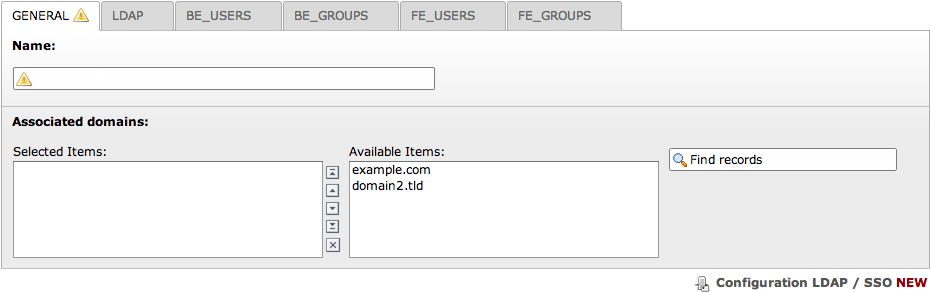
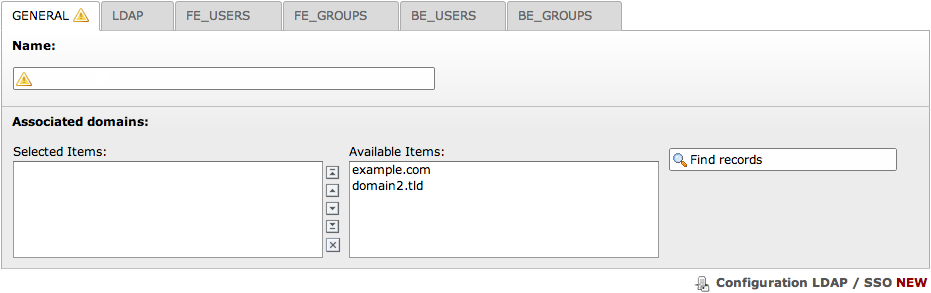
[TASK] Move frontend configuration before backend in TCA
Resolves: #65655

diff --git a/Configuration/TCA/tx_igldapssoauth_config.php b/Configuration/TCA/tx_igldapssoauth_config.php
@@ -36,14 +36,14 @@ return array(
 						ldap_server;;1,
 					--palette--;LLL:EXT:ig_ldap_sso_auth/Resources/Private/Language/locallang_db.xlf:palette.connection;connection,
 						ldap_binddn, ldap_password, group_membership,
-					--div--;BE_USERS,
-						be_users_basedn, be_users_filter, be_users_mapping, be_groups_required, be_groups_assigned,
-					--div--;BE_GROUPS,
-						be_groups_basedn, be_groups_filter, be_groups_mapping, be_groups_admin,
 					--div--;FE_USERS,
 						fe_users_basedn, fe_users_filter, fe_users_mapping, fe_groups_required, fe_groups_assigned,
 					--div--;FE_GROUPS,
-						fe_groups_basedn, fe_groups_filter, fe_groups_mapping'
+						fe_groups_basedn, fe_groups_filter, fe_groups_mapping,
+					--div--;BE_USERS,
+						be_users_basedn, be_users_filter, be_users_mapping, be_groups_required, be_groups_assigned,
+					--div--;BE_GROUPS,
+						be_groups_basedn, be_groups_filter, be_groups_mapping, be_groups_admin'
 		),
 	),
 	'palettes' => array(

diff --git a/Documentation/AdministratorManual/Groups.rst b/Documentation/AdministratorManual/Groups.rst
@@ -6,17 +6,21 @@
 .. include:: ../Includes.txt
 
 
-.. _admin-manual-begroups:
 .. _admin-manual-fegroups:
+.. _admin-manual-begroups:
 
-BE_GROUPS and FE_GROUPS
+FE_GROUPS and BE_GROUPS
 -----------------------
 
-The fourth and sixth tabs can be fill exactly the same way. The only difference between them is that BE\_GROUPS stores
-the configurations for the backend LDAP usergroup association and FE\_GROUPS stores the configurations for the frontend
-LDAP user group association. You will only fill the sections you need, BE\_GROUPS if you need backend authentication and
-FE\_GROUPS if you need frontend authentication. You can skip this entire section if you just want to validate the
-authentication and do not want to use groups from LDAP.
+The fourth and sixth tabs can be fill exactly the same way. The only difference between them is that FE_GROUPS stores
+the configurations for the frontend LDAP user group association and BE_GROUPS stores the configurations for the backend
+LDAP user group association.
+
+You may only fill the sections you need; that is, FE_GROUPS if you need frontend authentication and BE_GROUPS if you
+need backend authentication.
+
+You should skip this entire section if you just want to validate the authentication and do not want to use any groups
+coming from LDAP.
 
 - **Base DN:** Full DN path of the directory containing all the groups that are related to your LDAP users and you want
   to use in your TYPO3 website.

diff --git a/Documentation/AdministratorManual/Users.rst b/Documentation/AdministratorManual/Users.rst
@@ -6,18 +6,19 @@
 .. include:: ../Includes.txt
 
 
-.. _admin-manual-beusers:
 .. _admin-manual-feusers:
+.. _admin-manual-beusers:
 
-BE_USERS and FE_USERS
+
+FE_USERS and BE_USERS
 ---------------------
 
-The third tab and the fifth tabs can be fill exactly the same way. The only difference between them is that BE_USERS
-stores the configuration options for the backend LDAP user authentication and FE_USERS stores the configuration options
-for the frontend LDAP user authentication.
+The third tab and the fifth tabs can be fill exactly the same way. The only difference between them is that FE_USERS
+stores the configuration options for the frontend LDAP user authentication and BE_USERS stores the configuration options
+for the backend LDAP user authentication.
 
-You may only fill the section you need. That is, BE_USERS if you need backend authentication and FE_USERS if you need
-frontend authentication.
+You may only fill the sections you need; that is, FE_USERS if you need frontend authentication and BE_USERS if you need
+backend authentication.
 
 - **Base DN:** Full DN path of the directory containing all the users that you want to use with your TYPO3
   authentification.
